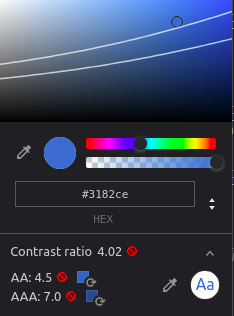
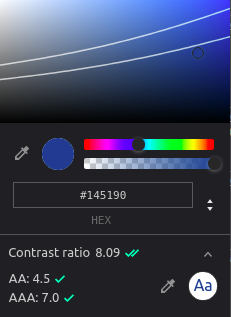
fix blog typos

diff --git a/components/MDXComponents.js b/components/MDXComponents.js
@@ -7,6 +7,8 @@ import {
   Text,
   Divider,
   useColorMode,
+  Image,
+  Flex,
 } from "@chakra-ui/react";
 import NextLink from "next/link";
 
@@ -129,6 +131,7 @@ const MDXComponents = {
   ol: (props) => <Box as="ol" pt={2} pl={4} ml={2} {...props} />,
   li: (props) => <Box as="li" pb={1} {...props} />,
   blockquote: Quote,
+  img: (props) => <Image {...props} />,
 };
 
 export { CustomLink };

diff --git a/data/blog/useEffect-vs-didMount.md b/data/blog/useEffect-vs-didMount.md
@@ -6,9 +6,9 @@ summary: how useEffect hook is diffrent from componentDidMount and what should w
 
 Some think of **hooks** are a way to reproduce lifecycle methods in functional components, well, part of this is wrong. Some even say that `useEffect(()=>{},[])` is the new **componentDidMount** which is wrong.
 
-Let me give you an example: lets say that you want to update the state synchrounoudsly in **componentDidMount** (like reading DOM dimensions...) , in this case react knows how tot trigger a second render without the user even notices that (no screen flickering).
+Let me give you an example: lets say that you want to update the state synchrounoudsly in **componentDidMount** (like reading DOM dimensions...), in this case react knows how to trigger a second render without the user even notices that (no screen flickering).
 
-But can we reproduce that in functional compoennets? quick answer no, why is that? because The function passed to **useEffect** will runs after the render is committed to the screen and with react "speed" the user will see a flicker.
+But can we reproduce that in functional components? quick answer no, why is that? because The function passed to **useEffect** will run after the render is committed to the screen and with react "speed" the user will see a flicker.
 
 let's state the steps of **componentDiDMount** and **useEffect**:
 
@@ -16,9 +16,9 @@ let's state the steps of **componentDiDMount** and **useEffect**:
 
 1. You cause a first render
 2. React calls render method
-3. DidMount runs immediately after the DOM has been mounted and sets state immediately(synchrounous) but before the browser has had a chance to "paint" the DOm
+3. DidMount runs immediately after the DOM has been mounted and sets state immediately(synchrounous) but before the browser has had a chance to "paint" the DOM
 4. render is called again with the new state
-5. the browser now shows the second render which is the initail UI for the user (no flickering)
+5. the browser now shows the second render which is the initial UI for the user (no flickering)
 
 **useEffect**:
 
@@ -29,16 +29,16 @@ let's state the steps of **componentDiDMount** and **useEffect**:
 5. render is called again
 6. browser shows the second render which in this time is not the intial UI thus screen flickering
 
-What is the solution? **useLayoutEffect**, updates scheduled inside **useLayoutEffect** will be flushed synchronously, before the browser has a chance to paint.[check docs](https://reactjs.org/docs/hooks-reference.html#uselayouteffect).
+What is the solution? **useLayoutEffect**, updates scheduled inside **useLayoutEffect** will be flushed synchronously, before the browser has a chance to paint ([check docs](https://reactjs.org/docs/hooks-reference.html#uselayouteffect)).
 
 **useLayoutEffect**:
 
 1. You cause a first render
 2. React calls render method
 3. useLayoutEffect runs, and React waits for it to finish.
-4. The browser paints the initail UI after useLayoutEffect finsihes
+4. The browser paints the initial UI after useLayoutEffect finsihes
 
-That mean that we have to use **useLayoutEffect** instead of **useEffect**? not at all, despite that **useLayoutEffect** was designed to have same timing as **componentDidMount** but we should use it only to avoid the flicker by setting the state synchronously(animations ...) as most of the time we use asynchrounous code in **comopinentDidMount** such as network calls and with that **useEffect** will be better solution then uselayoutEffect
+That means that we have to use **useLayoutEffect** instead of **useEffect**? not at all, despite that **useLayoutEffect** was designed to have same timing as **componentDidMount** but we should use it only to avoid the flicker by setting the state synchronously (animations...) as most of the time we use asynchrounous code in **componentDidMount** such as network calls and with that **useEffect** will be better solution then **useLayoutEffect**.
 
-and like that we can think of hooks in terms of what we do instead of when to do.
+So we can think of hooks in terms of what we do instead of when to do.
 If you want a more detailed explanation I recommand dan's [article](https://overreacted.io/a-complete-guide-to-useeffect/).

diff --git a/data/blog/color-accessibility-contrast-ratio.md b/data/blog/color-accessibility-contrast-ratio.md
@@ -8,7 +8,7 @@ Contrast ratio is the ratio between the maximum and minimum brightness. A text w
 
 ### Lighthouse
 
-To test contrast within a page use Lighthouse in chrome DevTools, it will help you measure a lot of criteria and will point out the problems that the page has including any text whose contrast ratio dosen't meet the requirements.
+To test accessibility within a page use Lighthouse in chrome DevTools, it will help you measure a lot of criteria and will point out the problems that the page has including any text whose contrast ratio dosen't meet the requirements.
 
 ![Lighthouse accessibility measuremnts.](/images/blogs/contrast-ratio/measure-failure.png "Lighthouse accessibility measuremnts.")
 
@@ -42,19 +42,19 @@ To fix the text contrast ratio problem just follow the steps below:
 
 ![Choosing the color of AAA level.](/images/blogs/contrast-ratio/aaa-level.png "Choosing the color of AAA level.")
 
-- If the proposed color dosen't suit your needs then you can use HSL color format and adjust the brightness according to your needs but also make sure that it meets the contrast level requirements for your text, contrast ratio will be updated while changing the color
+- If the proposed color dosen't suit your needs then you can use HSLA color format and adjust the lightness according to your prefences but also make sure that it meets the contrast level requirements for your text, contrast ratio will be updated while changing the color.
 
-![HSL color format.](/images/blogs/contrast-ratio/.png "HSL color format.")
+![HSLA color format.](/images/blogs/contrast-ratio/hsla.png "HSLA color format.")
 
-- Another method is that you can choose the color from within the color gradient picker at the top of the dialog. But how? you will see 2 white lines which will show you the contrast thereshold, for the top line any color from above will pass the AAA contrast requirements , any color in between the lines will pass the AA contrast requirements and any color under the bottom line will fail.
+- Another method is that you can choose the color from within the color gradient picker at the top of the dialog. But how? you will see 2 white lines which will show you the contrast thereshold, for the bottom line any color from under will pass the AAA contrast requirements , any color in between the lines will pass the AA contrast requirements and any color above the top line will fail.
 
 ![color gradient.](/images/blogs/contrast-ratio/color-gradient.png "color gradient.")
 
-- If you do not see the contrast ratio that means no backgroud color is set on the element, also sometimes with background color existing and no information about the contrast ratio. So what to do in that case?
+- If you do not see the contrast ratio that means no backgroud color is set on the element or the parent element, also sometimes with background color defined, no information displayed about the contrast ratio. So what to do in that case?
 
 ![no contrast ratio info.](/images/blogs/contrast-ratio/no-info.png "no contrast ratio info.")
 
-- If none of the above methods worked for you or simply you didn't like all of them and want something simpler, just go to this [website](https://contrastchecker.com/) and put the text color value in the foreground input and the backgroung color in the background input and click outside and it will show you if it passes or not and you can adjust the color by using the color picker and checking the boxes in the bottom (box will turn green if color chosen meet the requirements)
+- If none of the above methods worked for you or simply you didn't like all of them and want something simpler, just go to this [website](https://contrastchecker.com/) and put the text color value in the foreground input and the backgroung color in the background input and click outside and it will show you if it passes or not and you can adjust the color by using the color picker and checking the boxes in the bottom (box will turn green if color chosen meet the requirements).
 
 ![color picker.](/images/blogs/contrast-ratio/site-picker.png "color picker.")
 
